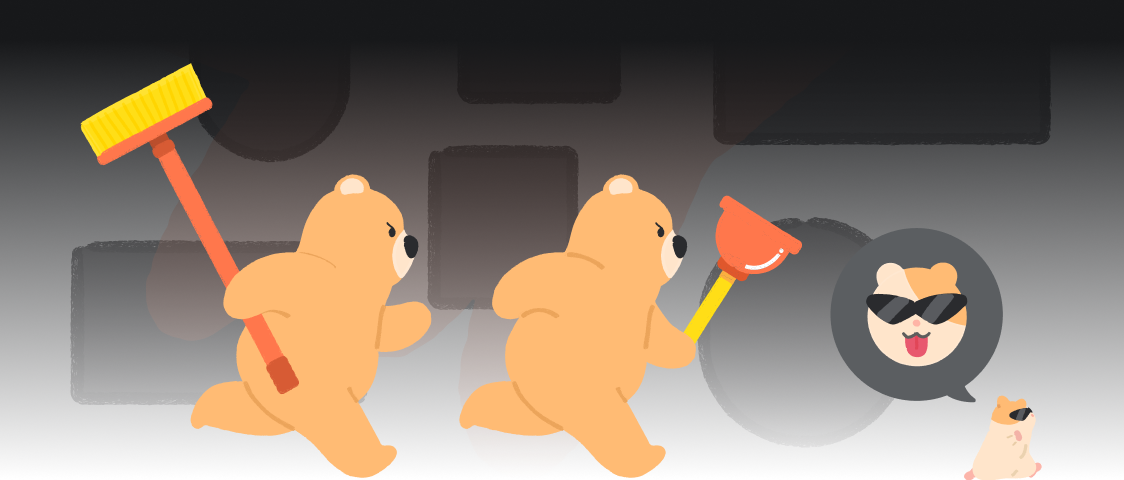
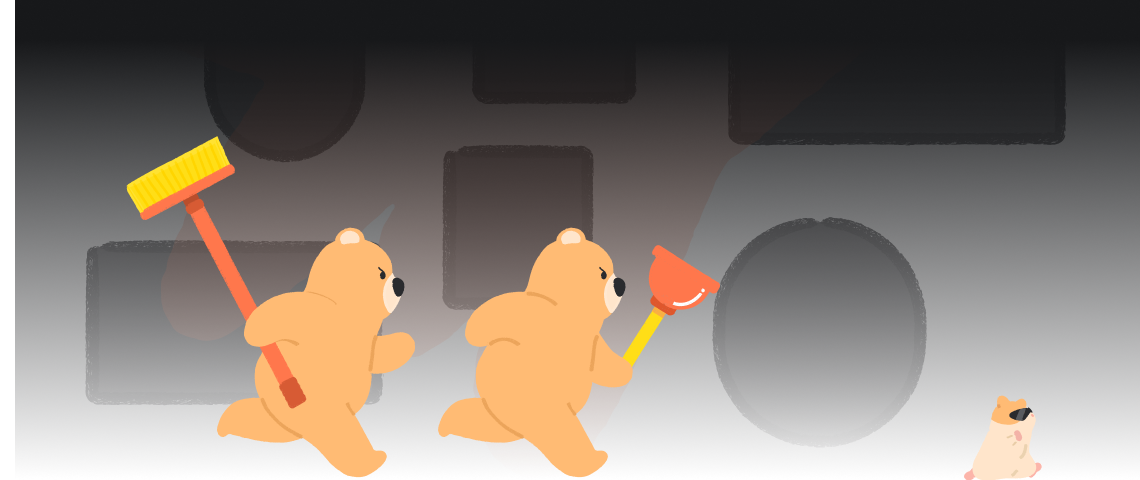
Feat: show the mafia's nickname in a speech bubble on the result picture and color player nicknames.

diff --git a/lib/app/pages/game/result/v2/game_result_picture.dart b/lib/app/pages/game/result/v2/game_result_picture.dart
@@ -1,32 +1,193 @@
+import 'package:auto_size_text/auto_size_text.dart';
 import 'package:material_ui/material_ui.dart';
 import 'package:trouble_painter/core/theme/components/image/asset_img.dart';
+import 'package:trouble_painter/core/theme/foundations/app_theme.dart';
+import 'package:trouble_painter/core/utils/ext/color_ext.dart';
+import 'package:trouble_painter/features/game/domain/entities/game_user.dart';
 
 /// The picture above the title: the mafia got away, or got caught.
+/// A speech bubble with the mafia's nickname points at the mafia in the picture.
 class GameResultPicture extends StatelessWidget {
   const GameResultPicture({
     super.key,
     required this.isMafiaWin,
+    required this.mafia,
     this.onTap,
   });
 
   final bool isMafiaWin;
+  final GameUser mafia;
   final VoidCallback? onTap;
 
   /// The picture sinks this far into the canvas below, to close the seam.
   static const double _sink = 0;
 
+  /// Where each bubble's tail tip points, in picture pixels, just above the mafia's head
+  static const _winPicture = _PictureSpec(
+    image: 'result_mafia_win',
+    width: 1140,
+    tip: Offset(1008, 388),
+  );
+  static const _losePicture = _PictureSpec(
+    image: 'result_mafia_lose',
+    width: 1125,
+    tip: Offset(612, 280),
+  );
+
+  static const EdgeInsets _bubblePadding =
+      EdgeInsets.symmetric(horizontal: 8, vertical: 4);
+  static const double _bubbleRadius = 14;
+  static const double _tailWidth = 12;
+  static const double _tailHeight = 8;
+
+  /// Keeps the bubble this far from the screen sides
+  static const double _sideMargin = 8;
+
   @override
   Widget build(BuildContext context) {
+    final picture = isMafiaWin ? _winPicture : _losePicture;
+    final style = context.typo.caption0;
+    final color = mafia.color;
+    final textColor = _readableOn(context, color);
     return Transform.translate(
       offset: const Offset(0, _sink),
-      child: GestureDetector(
-        onTap: onTap,
-        child: AssetImg(
-          isMafiaWin ? 'result_mafia_win' : 'result_mafia_lose',
-          width: double.infinity,
-          fit: BoxFit.fitWidth,
-        ),
+      child: LayoutBuilder(
+        builder: (context, constraints) {
+          final scale = constraints.maxWidth / picture.width;
+          final tip = picture.tip * scale;
+
+          /// The bubble fits its nickname, and stays on screen.
+          final painter = TextPainter(
+            text: TextSpan(text: mafia.nickname, style: style),
+            textDirection: TextDirection.ltr,
+            textScaler: MediaQuery.textScalerOf(context),
+            maxLines: 1,
+          )..layout(
+              maxWidth: constraints.maxWidth -
+                  _sideMargin * 2 -
+                  _bubblePadding.horizontal,
+            );
+
+          /// Rounded up, or a lone character can come out a hair too wide for its box and be cut.
+          final width =
+              painter.width.ceilToDouble() + _bubblePadding.horizontal;
+          final height = painter.height + _bubblePadding.vertical;
+          final left = (tip.dx - width / 2).clamp(
+            _sideMargin,
+            constraints.maxWidth - _sideMargin - width,
+          );
+          return Stack(
+            clipBehavior: Clip.none,
+            children: [
+              GestureDetector(
+                onTap: onTap,
+                child: AssetImg(
+                  picture.image,
+                  width: double.infinity,
+                  fit: BoxFit.fitWidth,
+                ),
+              ),
+
+              /// Mafia nickname bubble
+              Positioned(
+                left: left,
+                top: tip.dy - _tailHeight - height,
+                width: width,
+                height: height + _tailHeight,
+                child: CustomPaint(
+                  painter: _BubblePainter(
+                    color: color,
+                    tailX: (tip.dx - left).clamp(
+                      _bubbleRadius + _tailWidth / 2,
+                      width - _bubbleRadius - _tailWidth / 2,
+                    ),
+                    bodyHeight: height,
+                  ),
+                  child: Padding(
+                    padding: _bubblePadding.copyWith(bottom: 4 + _tailHeight),
+                    child: Center(
+                      child: AutoSizeText(
+                        mafia.nickname,
+                        maxLines: 1,
+                        minFontSize: 6,
+                        softWrap: false,
+                        overflow: TextOverflow.visible,
+                        textAlign: TextAlign.center,
+                        style: style.copyWith(color: textColor),
+                      ),
+                    ),
+                  ),
+                ),
+              ),
+            ],
+          );
+        },
       ),
     );
   }
+
+  /// The text color, or the surface color when the text is too faint on [background]
+  static Color _readableOn(BuildContext context, Color background) {
+    final text = context.color.text;
+    return background.contrastWith(text) < ColorExt.minTextContrast
+        ? context.color.surface
+        : text;
+  }
+}
+
+class _PictureSpec {
+  const _PictureSpec({
+    required this.image,
+    required this.width,
+    required this.tip,
+  });
+
+  final String image;
+
+  /// Pixel width of the image file, which the other numbers are measured in
+  final double width;
+  final Offset tip;
+}
+
+class _BubblePainter extends CustomPainter {
+  const _BubblePainter({
+    required this.color,
+    required this.tailX,
+    required this.bodyHeight,
+  });
+
+  final Color color;
+
+  /// Where the tail tip is, from the bubble's left
+  final double tailX;
+  final double bodyHeight;
+
+  @override
+  void paint(Canvas canvas, Size size) {
+    final paint = Paint()..color = color;
+    canvas.drawRRect(
+      RRect.fromLTRBR(
+        0,
+        0,
+        size.width,
+        bodyHeight,
+        const Radius.circular(GameResultPicture._bubbleRadius),
+      ),
+      paint,
+    );
+    canvas.drawPath(
+      Path()
+        ..moveTo(tailX - GameResultPicture._tailWidth / 2, bodyHeight - 1)
+        ..lineTo(tailX, size.height)
+        ..lineTo(tailX + GameResultPicture._tailWidth / 2, bodyHeight - 1)
+        ..close(),
+      paint,
+    );
+  }
+
+  @override
+  bool shouldRepaint(_BubblePainter oldDelegate) =>
+      oldDelegate.color != color ||
+      oldDelegate.tailX != tailX ||
+      oldDelegate.bodyHeight != bodyHeight;
 }

diff --git a/lib/core/utils/ext/color_ext.dart b/lib/core/utils/ext/color_ext.dart
@@ -4,7 +4,7 @@ import 'package:material_ui/material_ui.dart';
 
 extension ColorExt on Color {
   /// Below this contrast white text turns black (WCAG AA for large or bold text)
-  static const double minTextContrast = 3;
+  static const double minTextContrast = 2.5;
 
   /// WCAG contrast ratio with [other], from 1 to 21
   double contrastWith(Color other) {

diff --git a/lib/app/pages/game/result/widgets/game_result_users.dart b/lib/app/pages/game/result/widgets/game_result_users.dart
@@ -136,7 +136,7 @@ class _User extends StatelessWidget {
 
   @override
   Widget build(BuildContext context) {
-    final nicknameStyle = context.typo.caption2;
+    final nicknameStyle = context.typo.caption2.copyWith(color: user.color);
     return Stack(
       clipBehavior: Clip.none,
       children: [

diff --git a/lib/app/pages/game/result/v2/game_result_v2.dart b/lib/app/pages/game/result/v2/game_result_v2.dart
@@ -54,6 +54,7 @@ class GameResultV2 extends StatelessWidget {
                   /// Picture
                   GameResultPicture(
                     isMafiaWin: state.isMafiaWin,
+                    mafia: state.mafia,
                     onTap: viewModel.changeResultType,
                   ),
 
